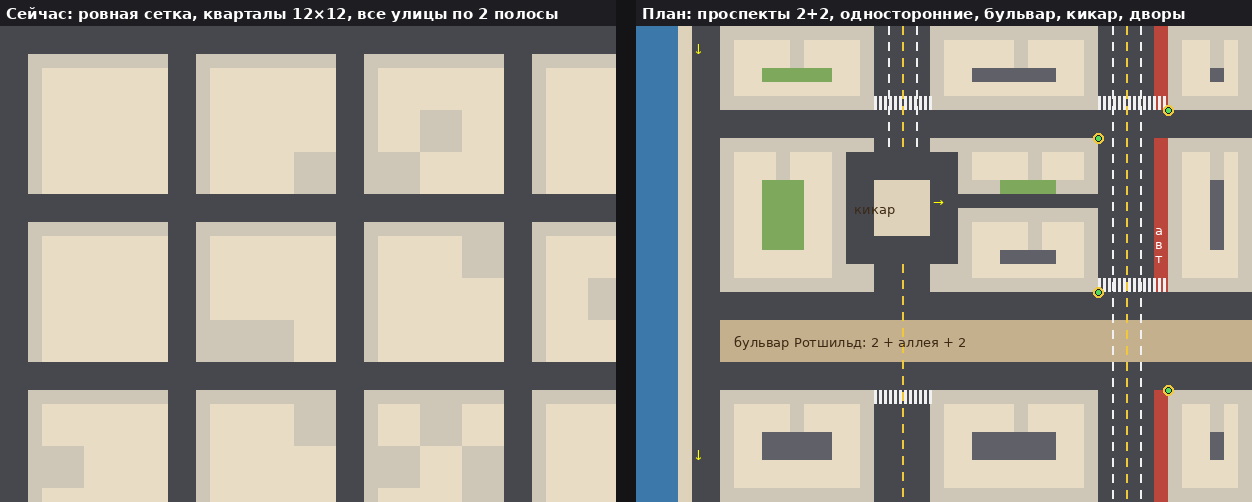
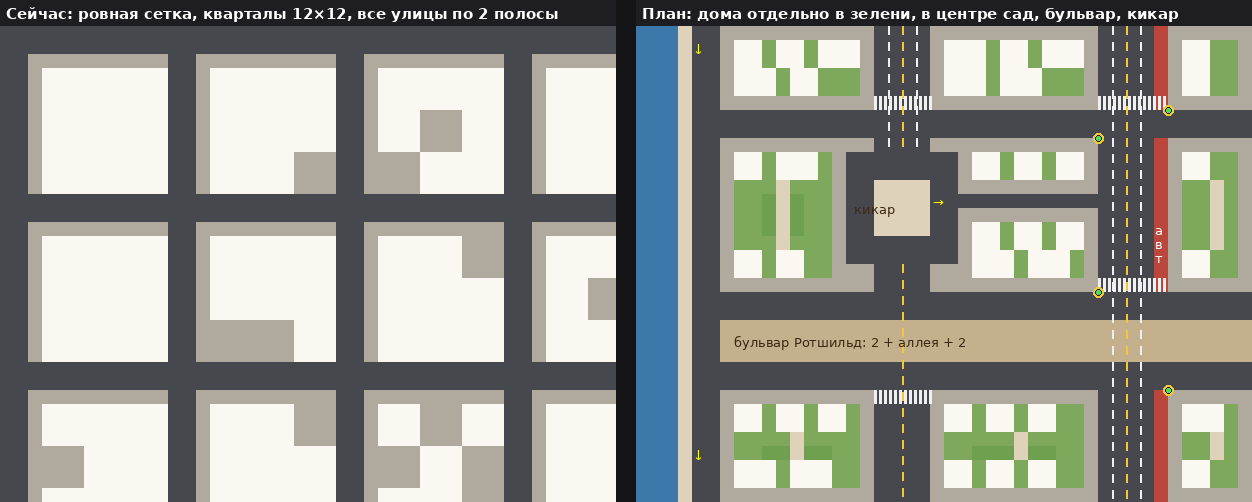
План GTA2: Тель-Авив по Геддесу, а не американский город
Отдельно стоящие дома в зелени, суперкварталы с садом в центре, улицы
вдоль моря, бульвары и кикары; таблица устройства каждого района; схема
перерисована. Код не менялся.

Claude-Session: https://claude.ai/code/session_01PPadoszZn793kuSFn4YNWp

diff --git a/docs/PLAN_GTA2_MAP.md b/docs/PLAN_GTA2_MAP.md
@@ -64,7 +64,43 @@
 * Точных чисел в источниках нет, поэтому ниже свои, подобранные под ощущение
   GTA2.
 
-## 3. План изменений
+## 3. Главный принцип: Тель-Авив, а не Америка
+
+GTA2 — американский город, и его кварталы американские. Из GTA2 берём только
+то, как устроена **игра**: масштаб, камеру, читаемую иерархию улиц, дворы и
+проходы как игровое пространство, детали перекрёстков. **Город** остаётся
+тель-авивским: застройка, планировка и характер районов.
+
+Чем Тель-Авив отличается (план Патрика Геддеса 1925 года и «Белый город»):
+
+* **Главные улицы идут параллельно морю** (Ха-Яркон, Бен-Йехуда, Дизенгоф,
+  Ибн-Гвироль). Поперечные — от моря вглубь, чтобы город продувал бриз.
+* **Суперкварталы с общественным садом в центре.** К саду ведут тихие жилые
+  улочки и тропинки; внутри детские площадки и сады. Тупиков Геддес избегал.
+* **Дома стоят отдельно,** каждый на своём участке в зелени, и занимают не
+  больше трети участка. Это белые кубики в 3–4 этажа, часто на сваях, с
+  промежутками между домами. Сплошных стен домов, как в американском даунтауне,
+  в Белом городе нет.
+* **Бульвары** с аллеей посередине и **площади-кикары**.
+
+Источники: [план Геддеса](https://en.wikipedia.org/wiki/Geddes_Plan_for_Tel_Aviv),
+[ЮНЕСКО: Белый город](https://whc.unesco.org/en/list/1096/).
+
+**Как устроен каждый район** (это сохраняем и усиливаем):
+
+| Район | Планировка и застройка |
+|---|---|
+| Белый город (центр, Старый Север) | суперкварталы Геддеса, отдельные дома на сваях в зелени, сад в центре, бульвары |
+| Флорентин | узкие улицы, сплошные фасады: мастерские внизу, квартиры с балконами сверху, переулки с граффити |
+| Неве-Цедек | кривые узкие улочки, низкие дома под черепицей, дворики |
+| Старый Яффо и Аджами | неровная восточная планировка, каменные дома, лестницы и пешеходные проулки, виллы у моря |
+| Шук а-Кармель, а-Тиква, блошиный рынок | рыночные улицы, где ходят пешком, с рядами прилавков |
+| Юг (у автостанции) | плотная смешанная застройка, проходные дворы, огромная автостанция |
+| Шхунот | «шикуны» — длинные бетонные дома среди газонов |
+| Рамат-Ган | башни на подиумах, широкие улицы, сады вокруг |
+| Сарона, Кирья | парк с домами тамплиеров; закрытый военный городок |
+
+## 4. План изменений
 
 ### Этап 1. Масштаб и камера
 
@@ -99,8 +135,9 @@
 | Переулок | 1 полоса, часто тупик | Флорентин, Неве-Цедек |
 | Пешеходные | машинам нельзя | Старый Яффо, Шук, Нахалат Биньямин |
 
-* **Кварталы** разного размера (6–20 клеток), Т-образные перекрёстки, тупики.
-  Сетка неровная, как в GTA2, но читаемая.
+* **Кварталы** разного размера: суперкварталы Белого города 15–20 клеток,
+  плотный Флорентин 6–8. В Яффо планировка неровная, в Рамат-Гане крупная.
+  Т-образные перекрёстки есть, тупиков мало, как у Геддеса.
 * **Круговые перекрёстки** («кикар»): площадь Дизенгоф, у часовой башни Яффо,
   в Рамат-Гане. Это очень по-израильски.
 * **Разметка.**
@@ -114,11 +151,16 @@
 
 ### Этап 3. Кварталы и дворы
 
-* **Устройство квартала.** По периметру — дома, внутри — двор. В нём
-  сад с фикусами, парковка, детская площадка, контейнеры и клетки для
-  бутылок, вход в бомбоубежище. Во двор ведут арки и проходы шириной в
-  1 клетку; в часть дворов можно заехать на машине. Через дворы удобно
-  уходить от погони.
+* **Белый город — по Геддесу.**
+  * Отдельные дома в зелени с промежутками в клетку.
+  * В центре суперквартала общественный сад с детской площадкой; к нему
+    ведут тропинки и тихие жилые улочки (машина проедет, но медленно).
+  * У домов парковка под сваями, мусорные контейнеры и клетки для бутылок,
+    вход в бомбоубежище.
+  * Через промежутки между домами и сады удобно уходить от погони —
+    это и есть «дворы» в духе GTA2, только по-тель-авивски.
+* **Сплошные фасады и внутренние дворы-колодцы** — только там, где они есть
+  на самом деле: Флорентин, юг, часть Яффо.
 * **Свой характер у каждого района.**
   * Белый город: дома на сваях с садом под ними.
   * Флорентин: мастерские, глухие переулки, граффити.
@@ -146,13 +188,13 @@
 * Пути полиции и бандитов, такси и «Шмоне-Бис» — тоже.
 * Миникарта, 2D-режим; прогон всех 16 миссий тестом.
 
-## 4. Что не меняется
+## 5. Что не меняется
 
 Районы и территории банд, достопримечательности, вывески, фасады,
 сгенерированные картинки, сюжет, тексты, звуки. Израильский колорит —
 главный приоритет: схема GTA2 только помогает ему.
 
-## 5. Риски
+## 6. Риски
 
 * Это перестройка генератора города, трафика и всех точек миссий. Делать
   её стоит по этапам, проверяя каждый.
@@ -161,7 +203,7 @@
 * Больше мелких деталей — выше нагрузка. Буду следить за временем кадра,
   как раньше.
 
-## 6. Вопросы на согласование
+## 7. Вопросы на согласование
 
 1. **Вид камеры.** Строго сверху с перспективой, как в GTA2 (фасады видны у
    краёв экрана), — или оставить нынешний наклон по умолчанию?
